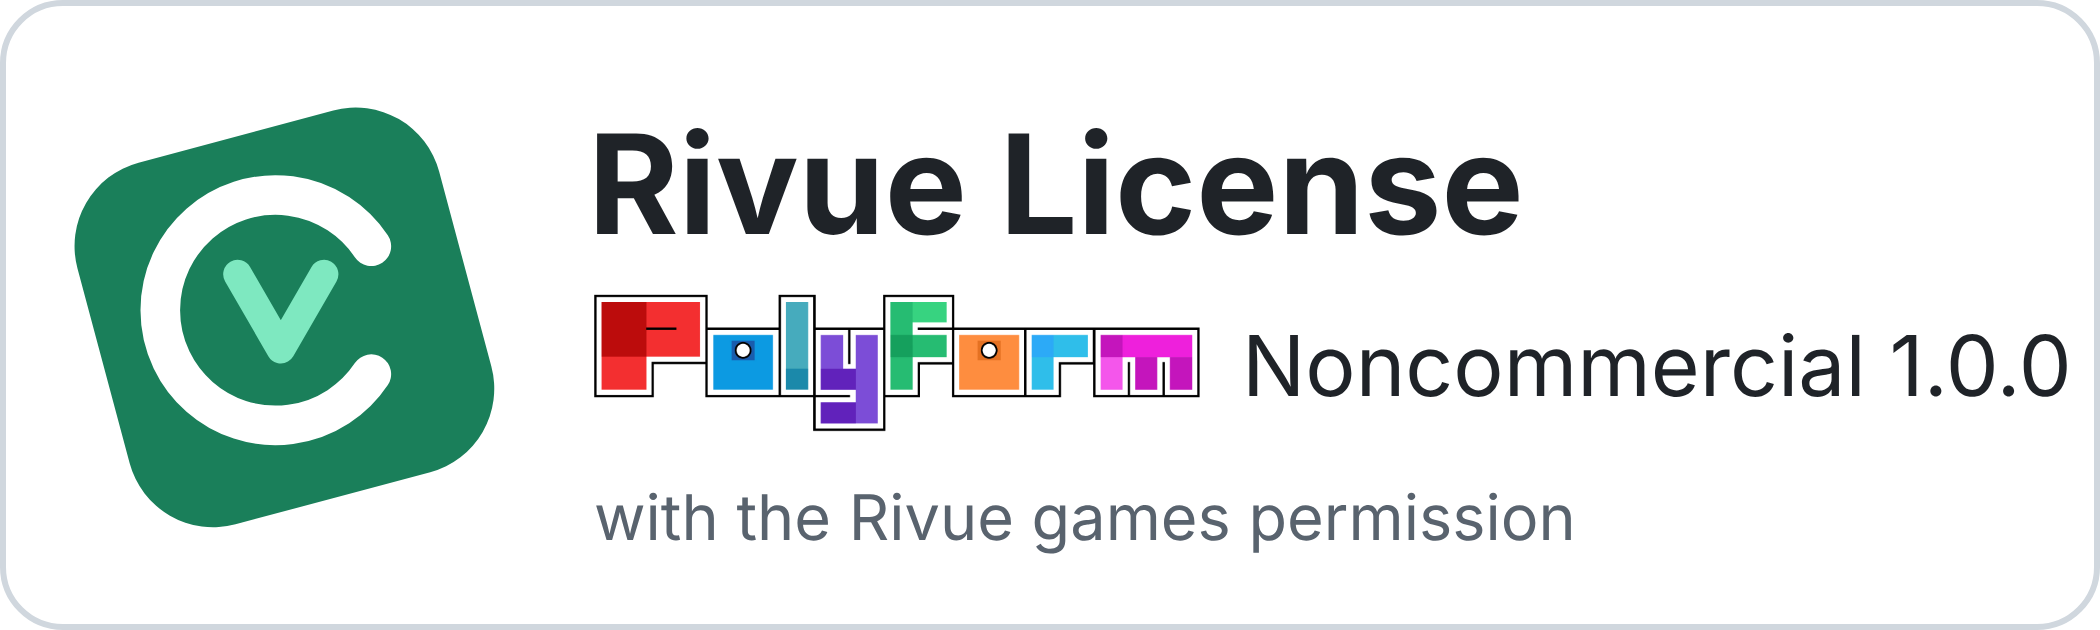
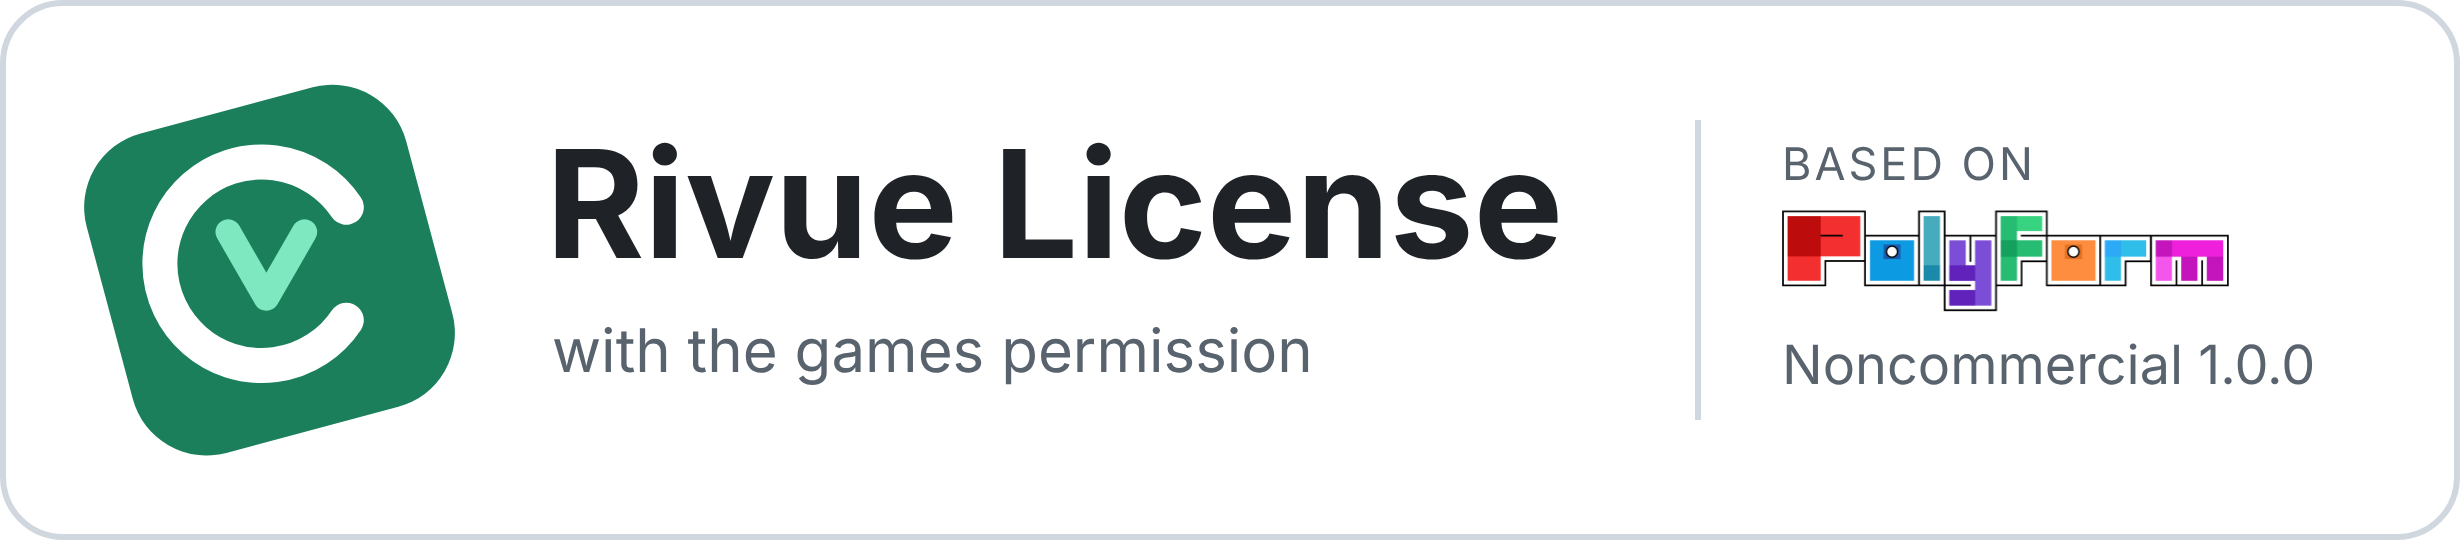
docs(license): centred license card with a dark-mode version

diff --git a/README.md b/README.md
@@ -177,7 +177,10 @@ pesde.toml                 the pesde workspace
 ## License
 
 <a href="LICENSE.md">
-<img src="docs/assets/license-lockup.webp" height="110" alt="Rivue License: PolyForm Noncommercial 1.0.0 + games permission">
+<picture>
+  <source media="(prefers-color-scheme: dark)" srcset="docs/assets/license-lockup-dark.webp">
+  <img src="docs/assets/license-lockup.webp" height="110" alt="Rivue License, based on PolyForm Noncommercial 1.0.0, with the games permission">
+</picture>
 </a>
 
 [PolyForm Noncommercial 1.0.0](LICENSE.md), with an extra permission for games. You can use, fork,

diff --git a/packages/rivue-devtools/LICENSE.md b/packages/rivue-devtools/LICENSE.md
@@ -1,5 +1,8 @@
 <p align="center">
-<img src="../../docs/assets/license-lockup.webp" height="140" alt="Rivue License: PolyForm Noncommercial 1.0.0 + games permission">
+<picture>
+  <source media="(prefers-color-scheme: dark)" srcset="../../docs/assets/license-lockup-dark.webp">
+  <img src="../../docs/assets/license-lockup.webp" height="140" alt="Rivue License, based on PolyForm Noncommercial 1.0.0, with the games permission">
+</picture>
 </p>
 
 # Rivue license

diff --git a/packages/rivue-remote/LICENSE.md b/packages/rivue-remote/LICENSE.md
@@ -1,5 +1,8 @@
 <p align="center">
-<img src="../../docs/assets/license-lockup.webp" height="140" alt="Rivue License: PolyForm Noncommercial 1.0.0 + games permission">
+<picture>
+  <source media="(prefers-color-scheme: dark)" srcset="../../docs/assets/license-lockup-dark.webp">
+  <img src="../../docs/assets/license-lockup.webp" height="140" alt="Rivue License, based on PolyForm Noncommercial 1.0.0, with the games permission">
+</picture>
 </p>
 
 # Rivue license

diff --git a/packages/rivue-router/LICENSE.md b/packages/rivue-router/LICENSE.md
@@ -1,5 +1,8 @@
 <p align="center">
-<img src="../../docs/assets/license-lockup.webp" height="140" alt="Rivue License: PolyForm Noncommercial 1.0.0 + games permission">
+<picture>
+  <source media="(prefers-color-scheme: dark)" srcset="../../docs/assets/license-lockup-dark.webp">
+  <img src="../../docs/assets/license-lockup.webp" height="140" alt="Rivue License, based on PolyForm Noncommercial 1.0.0, with the games permission">
+</picture>
 </p>
 
 # Rivue license

diff --git a/packages/rivue-ui/LICENSE.md b/packages/rivue-ui/LICENSE.md
@@ -1,5 +1,8 @@
 <p align="center">
-<img src="../../docs/assets/license-lockup.webp" height="140" alt="Rivue License: PolyForm Noncommercial 1.0.0 + games permission">
+<picture>
+  <source media="(prefers-color-scheme: dark)" srcset="../../docs/assets/license-lockup-dark.webp">
+  <img src="../../docs/assets/license-lockup.webp" height="140" alt="Rivue License, based on PolyForm Noncommercial 1.0.0, with the games permission">
+</picture>
 </p>
 
 # Rivue license

diff --git a/LICENSE.md b/LICENSE.md
@@ -1,5 +1,8 @@
 <p align="center">
-<img src="docs/assets/license-lockup.webp" height="140" alt="Rivue License: PolyForm Noncommercial 1.0.0 + games permission">
+<picture>
+  <source media="(prefers-color-scheme: dark)" srcset="docs/assets/license-lockup-dark.webp">
+  <img src="docs/assets/license-lockup.webp" height="140" alt="Rivue License, based on PolyForm Noncommercial 1.0.0, with the games permission">
+</picture>
 </p>
 
 # Rivue license
